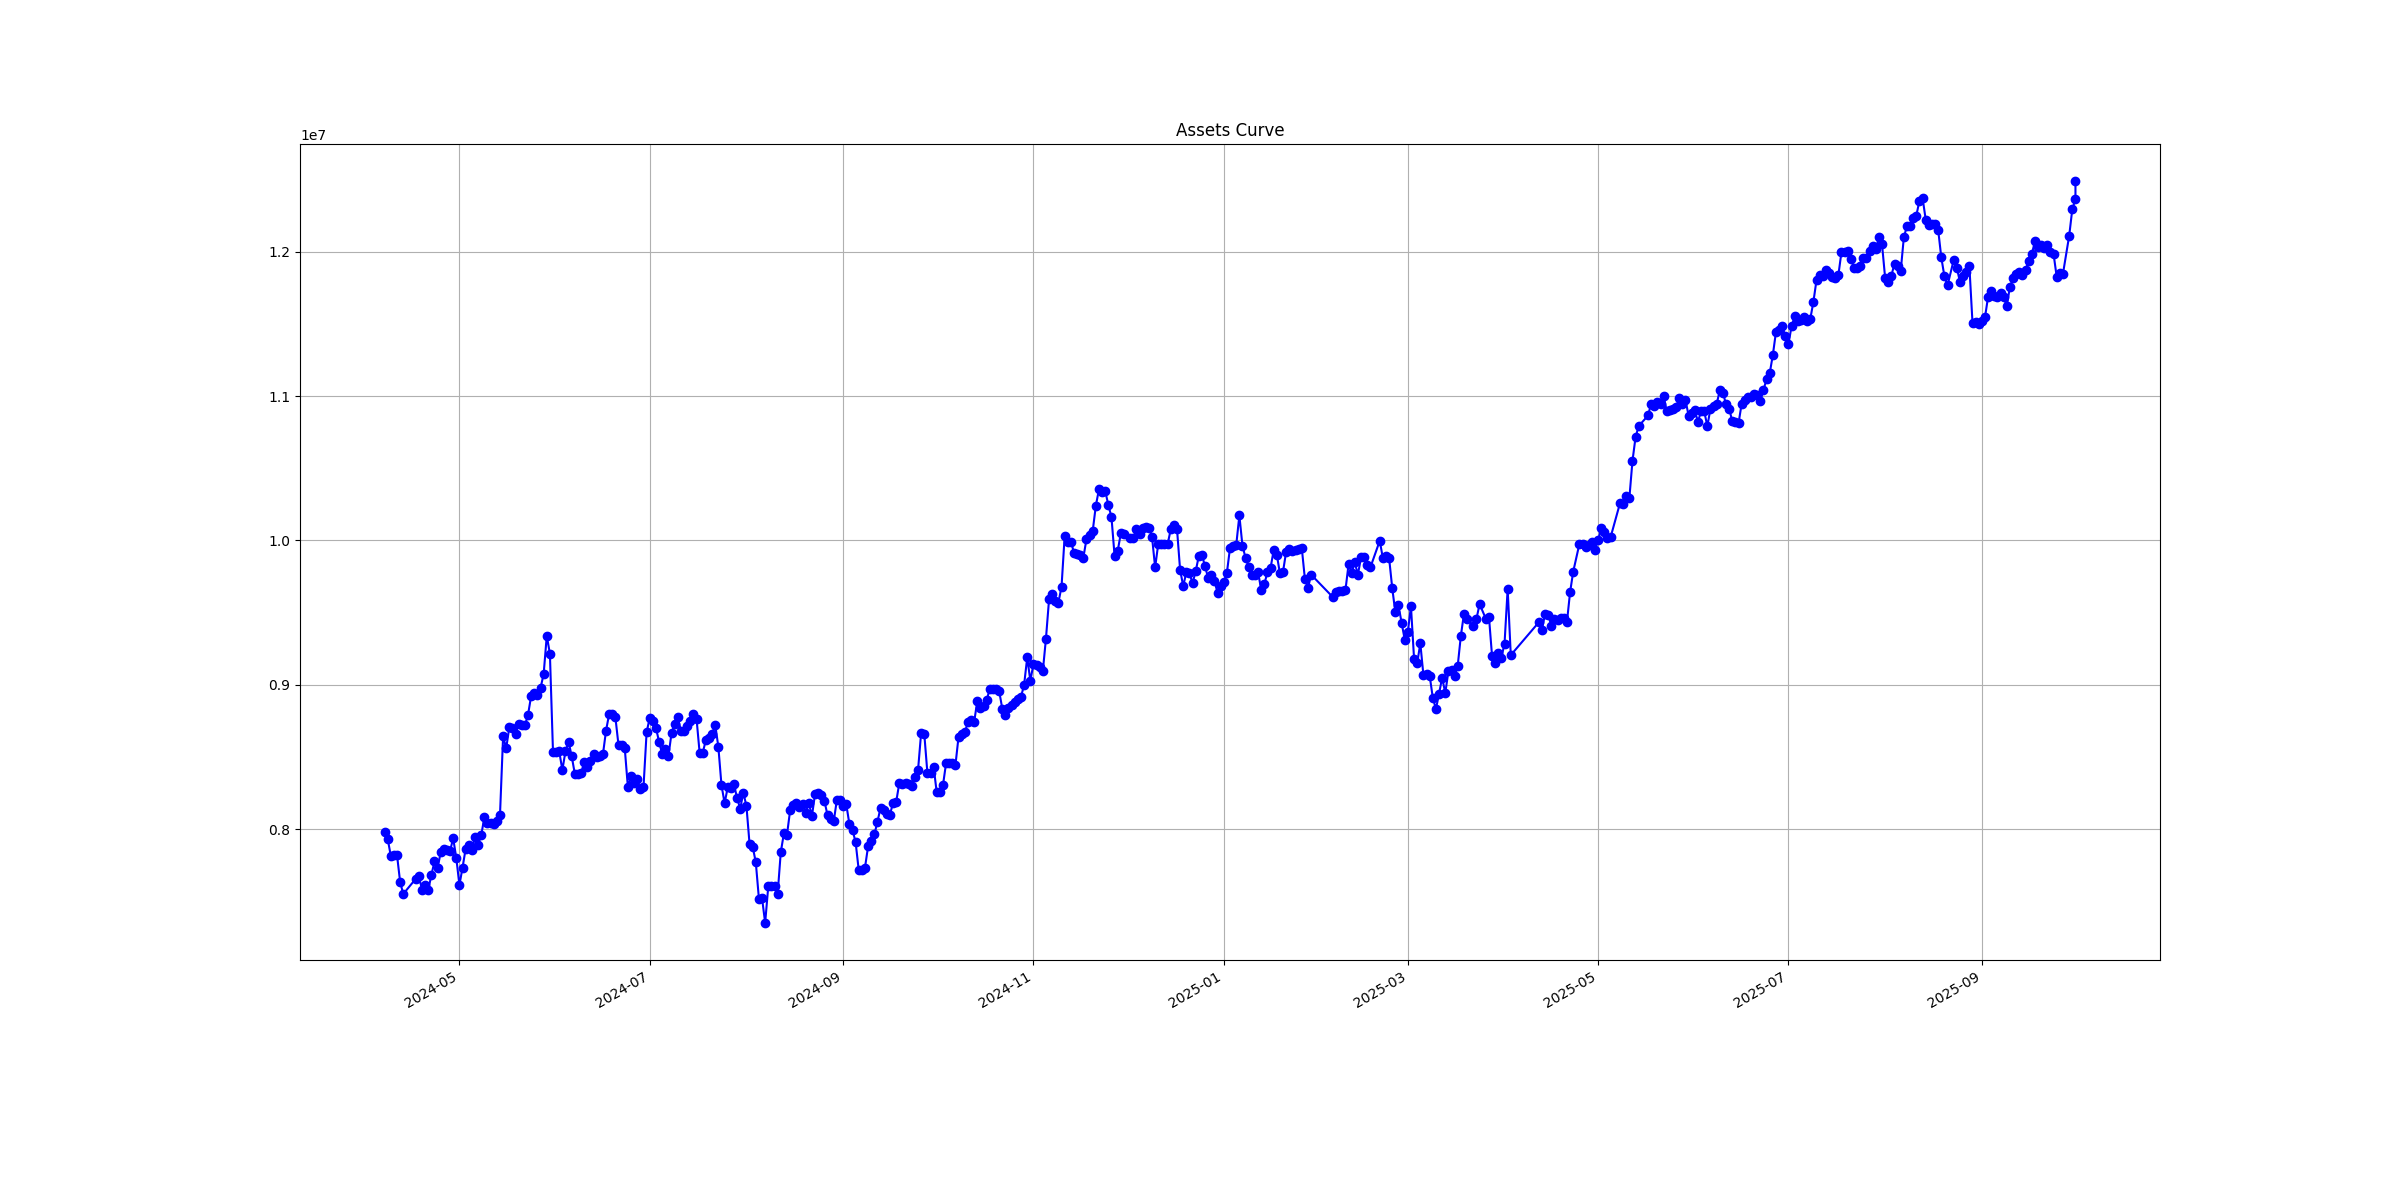
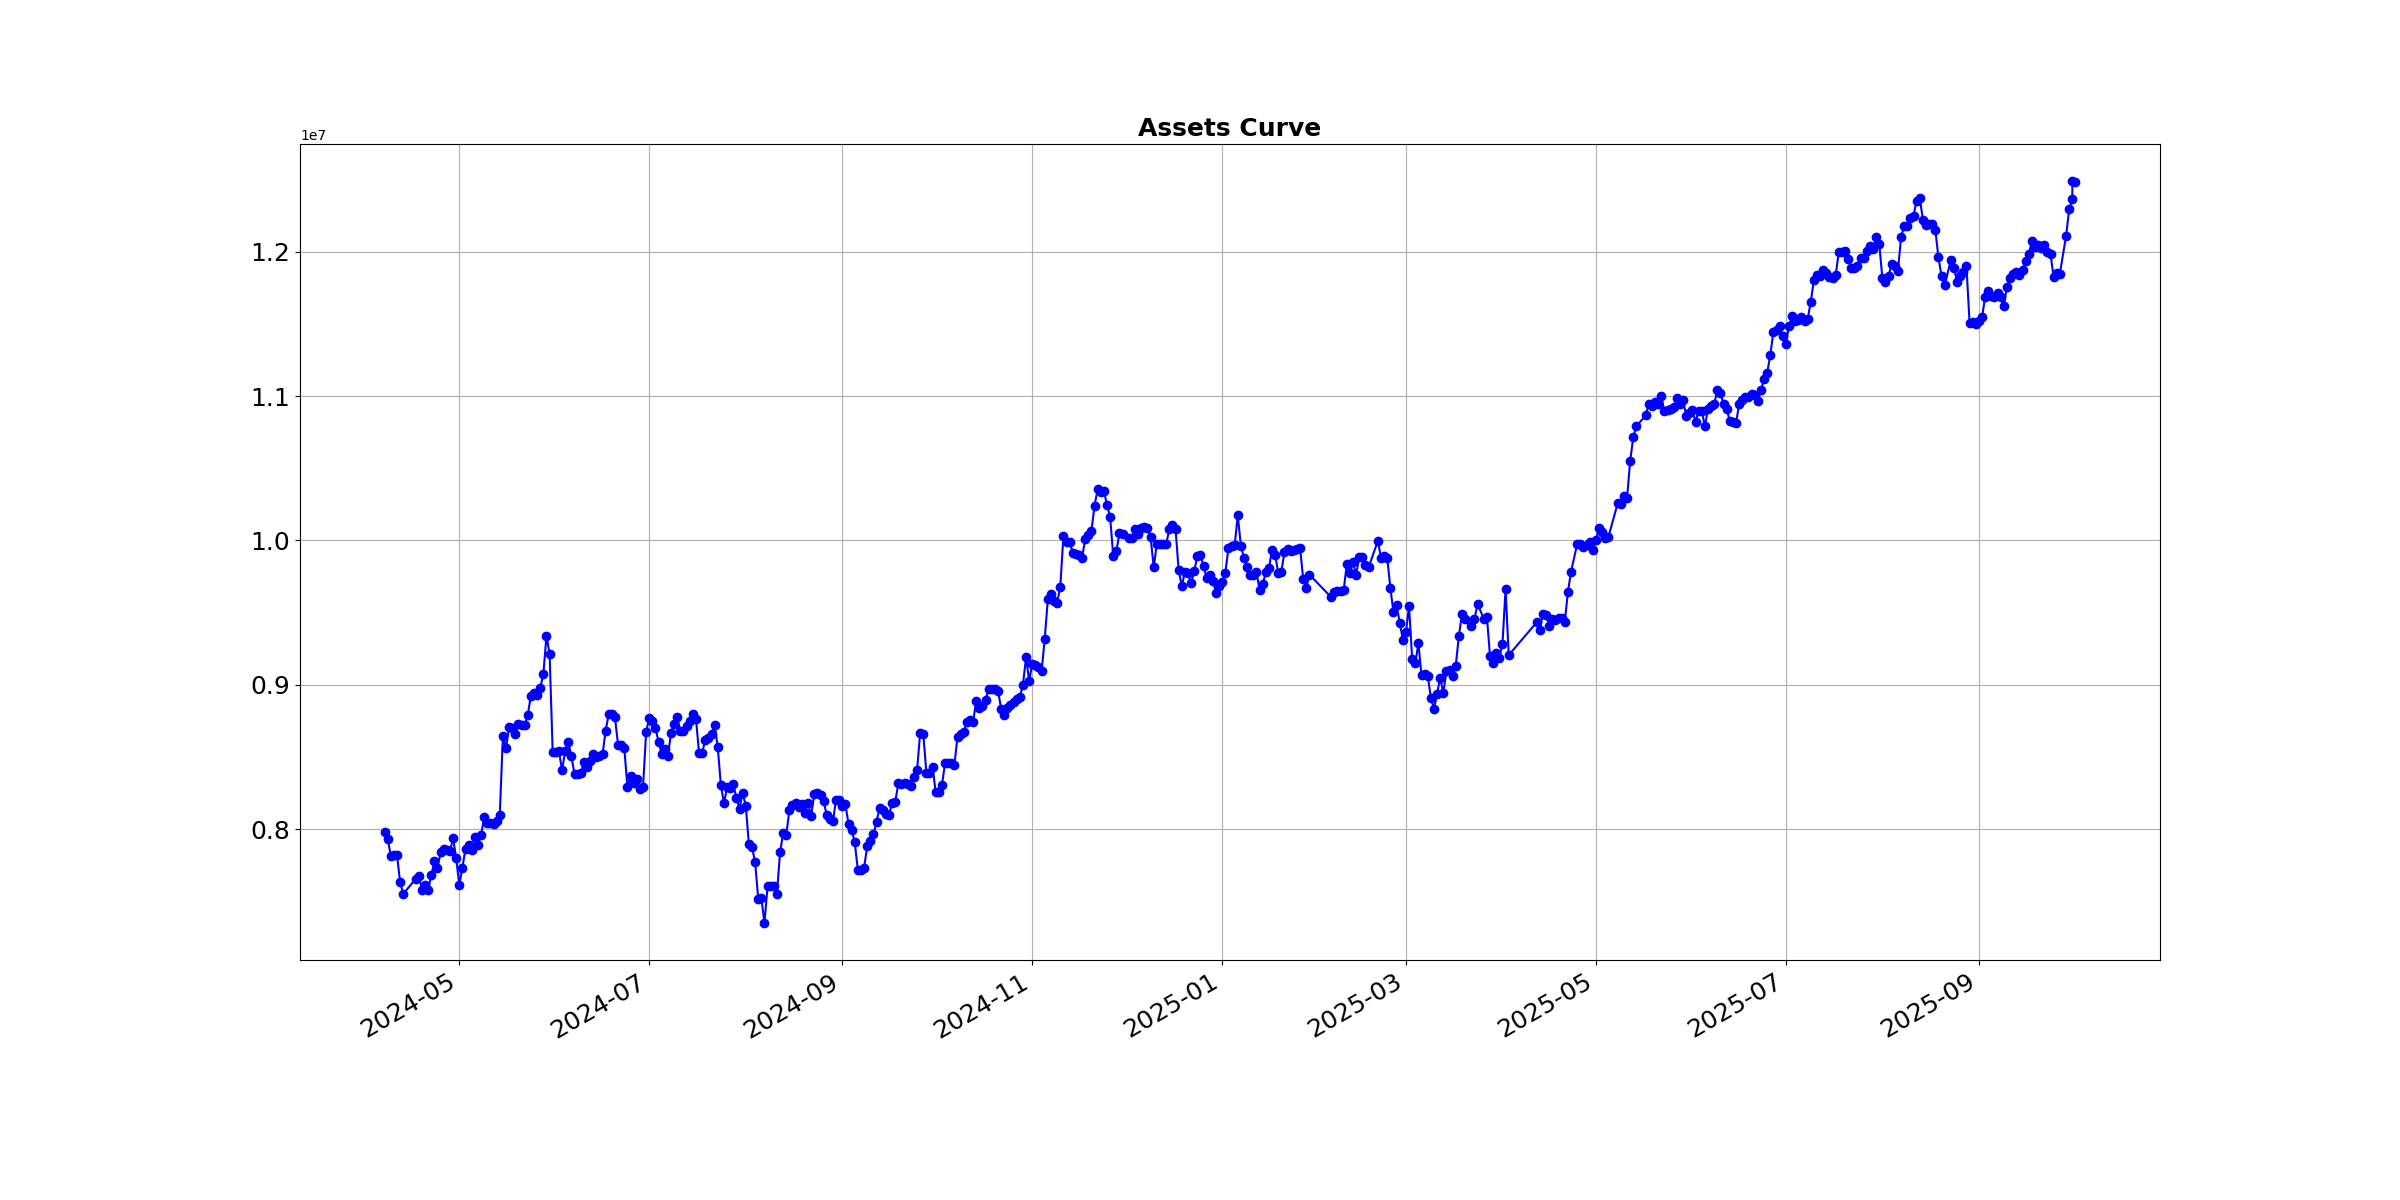
Automated update

diff --git a/balancesheet.py b/balancesheet.py
@@ -285,7 +285,6 @@ class AssetsManager:
         plt.figure(figsize=(24, 12))   # Set the figure size
         df = pd.read_csv(self.legacy_asset_db)
         x = [datetime.strptime(date_string, "%Y-%m-%d %H:%M:%S").date() for date_string in df['Datetime']]
-        # x = [i for i in range(len(df['Datetime']))]
         y1 = df['Assets']
         y2 = df['Liabilities']
         y3 = df['Investment']
@@ -295,7 +294,10 @@ class AssetsManager:
         # Formatting the date on x-axis
         plt.gcf().autofmt_xdate()
 
-        plt.title('Assets Curve')
+        plt.xticks(fontsize=18)  # Set font size for X-axis ticks  
+        plt.yticks(fontsize=18)  # Set font size for Y-axis ticks
+
+        plt.title('Assets Curve', fontsize=18, fontweight='bold')
         plt.grid(True)
         plt.savefig(self.legacy_asset_curve)
         plt.close()
